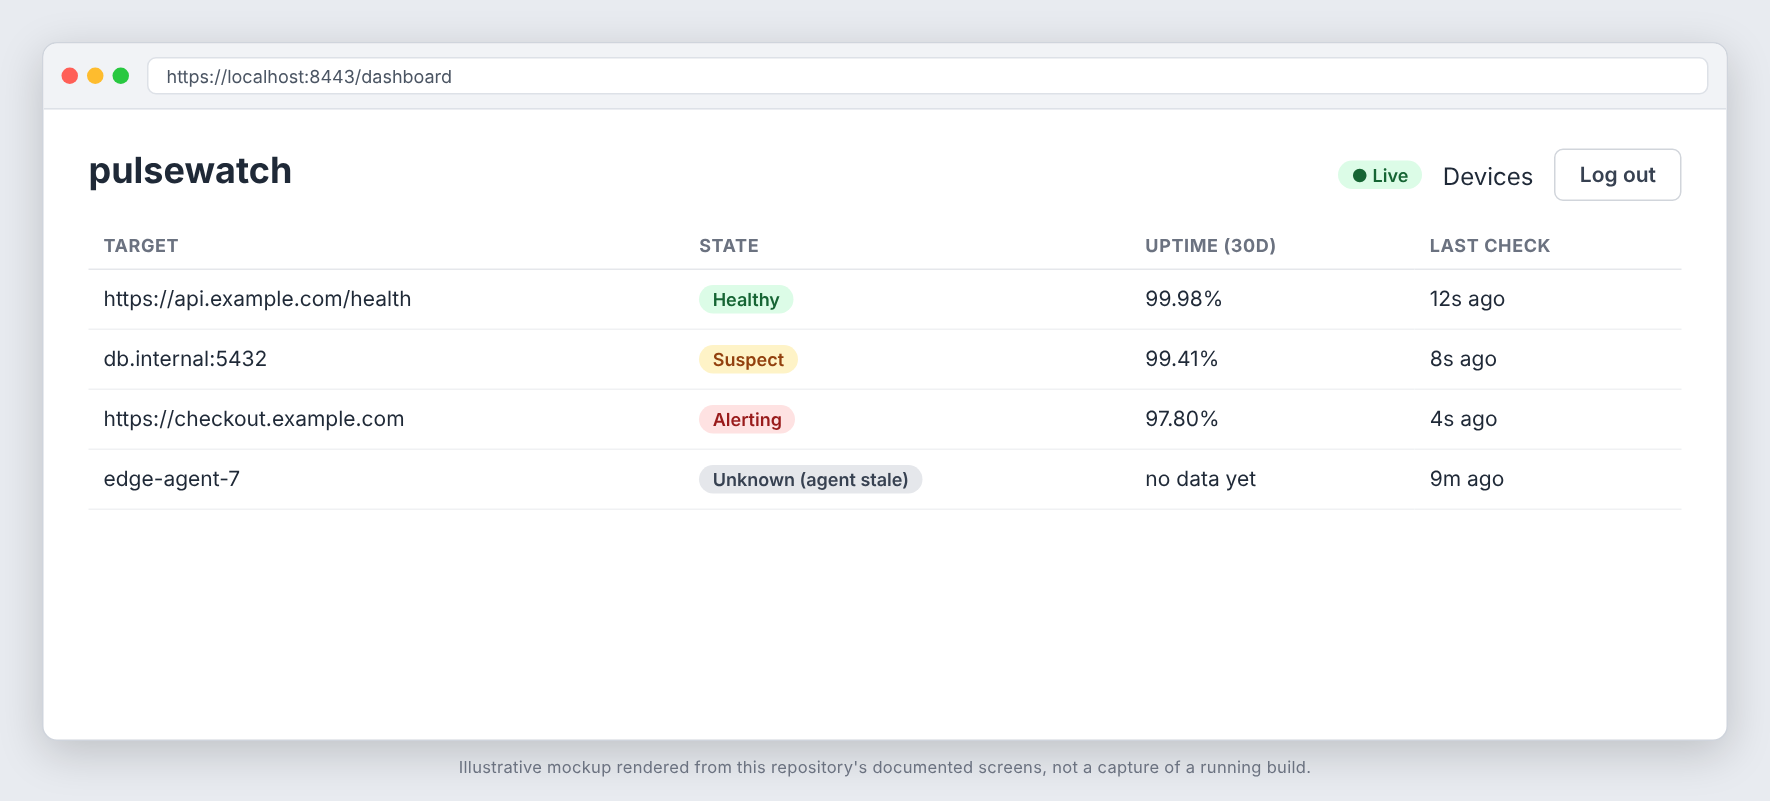
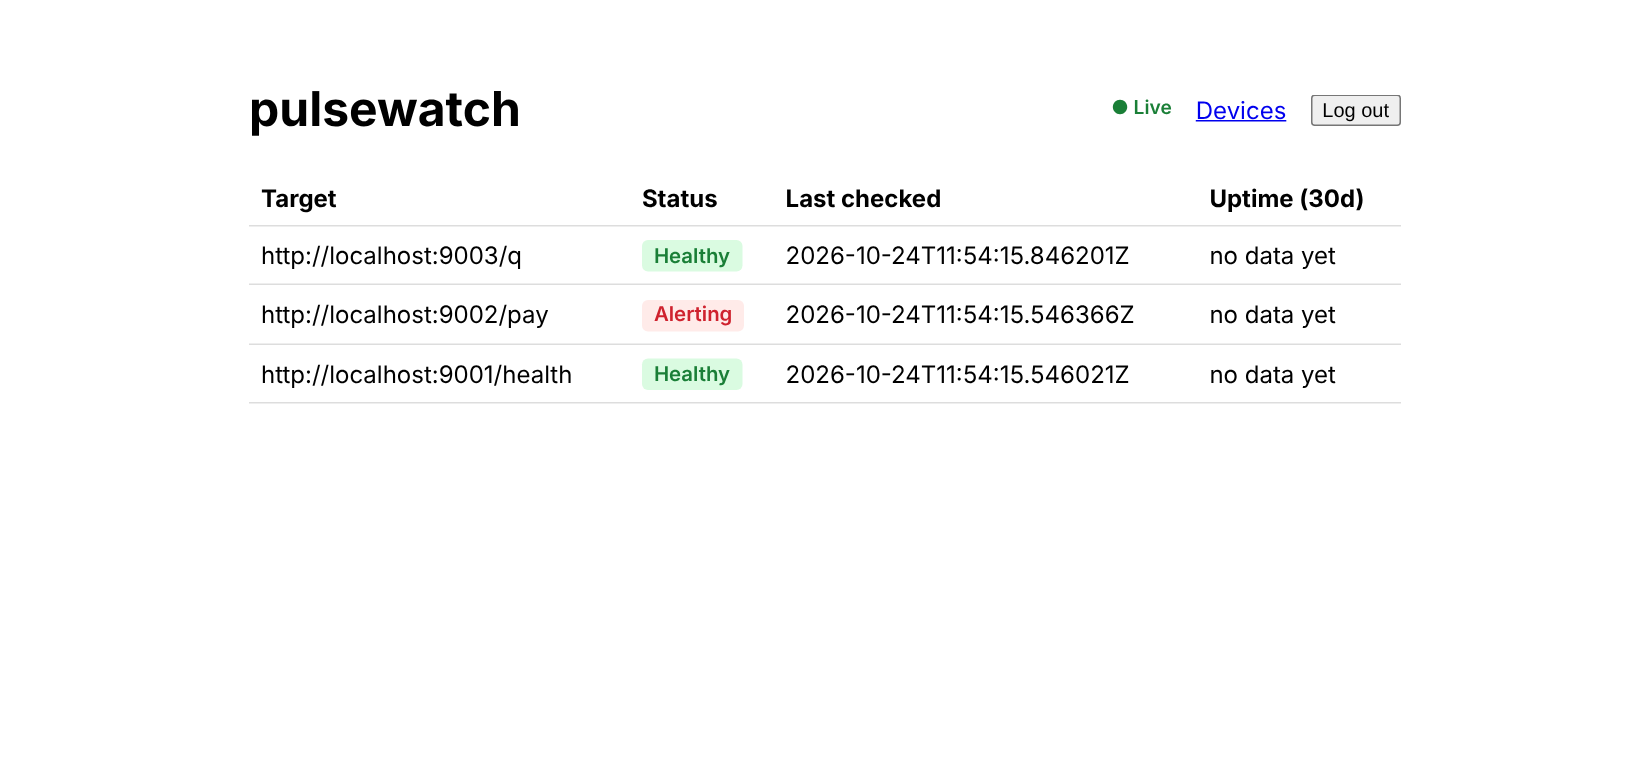
Replace mockups with real captures of the running app
Claude-Session: https://claude.ai/code/session_01MMnAbBEvfYn2oeVzGWoYsN

diff --git a/README.md b/README.md
@@ -14,11 +14,11 @@ observability platform.
 
 ## Screenshots
 
-![Target health dashboard](docs/screenshots/dashboard.png)
+![Operator login](docs/screenshots/login.png)
 
-![Registered devices](docs/screenshots/devices.png)
+![Dashboard with live target status](docs/screenshots/dashboard.png)
 
-_These images are illustrative mockups rendered from this repository's documented screens and API shapes, not captures of a running build. Regenerate or replace them with real captures once the app is running._
+_Real captures from a local run: the Go backend with its scheduler checking three local HTTP endpoints (one healthy, one returning 503 so it is alerting, one slow), the SvelteKit dev server, PostgreSQL and Redis, driven with Playwright. "no data yet" in the uptime column is the honest value for targets created seconds earlier._
 
 ## What this demonstrates
 
